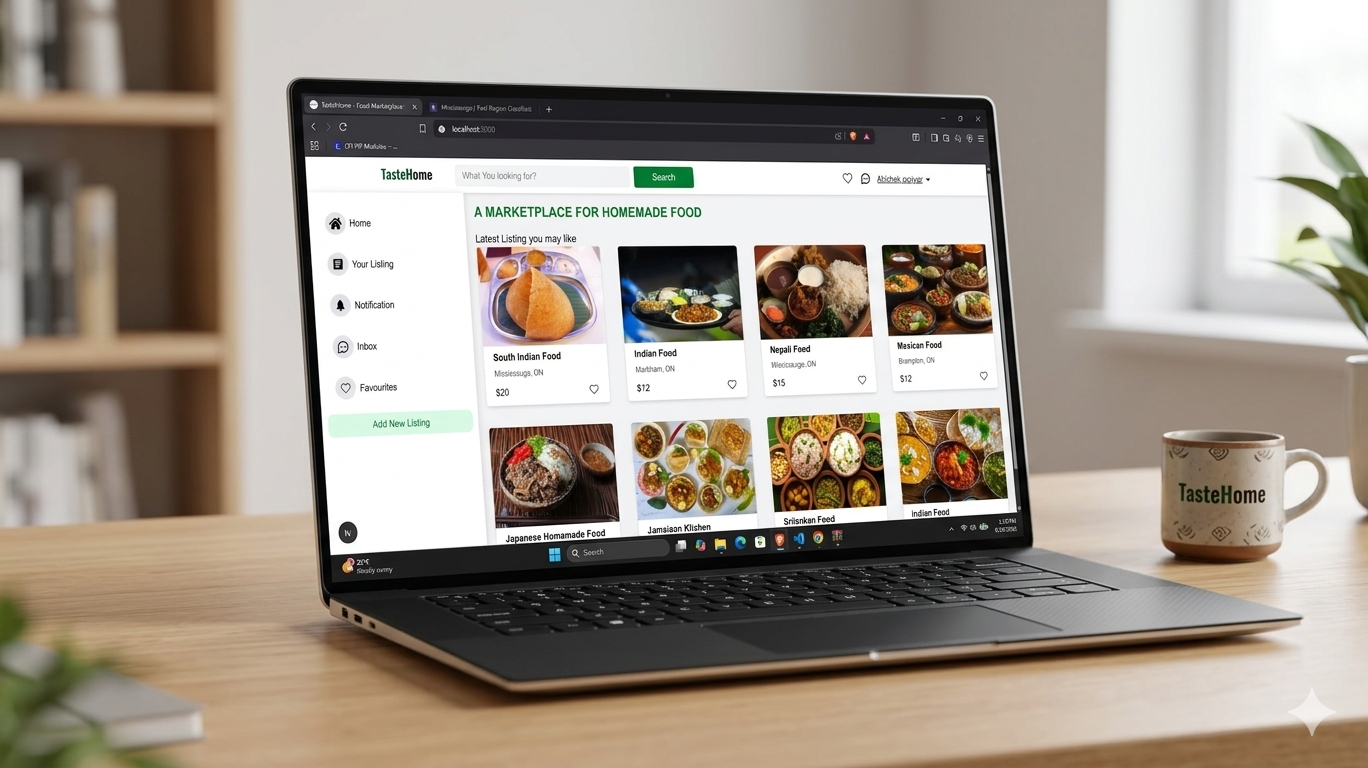
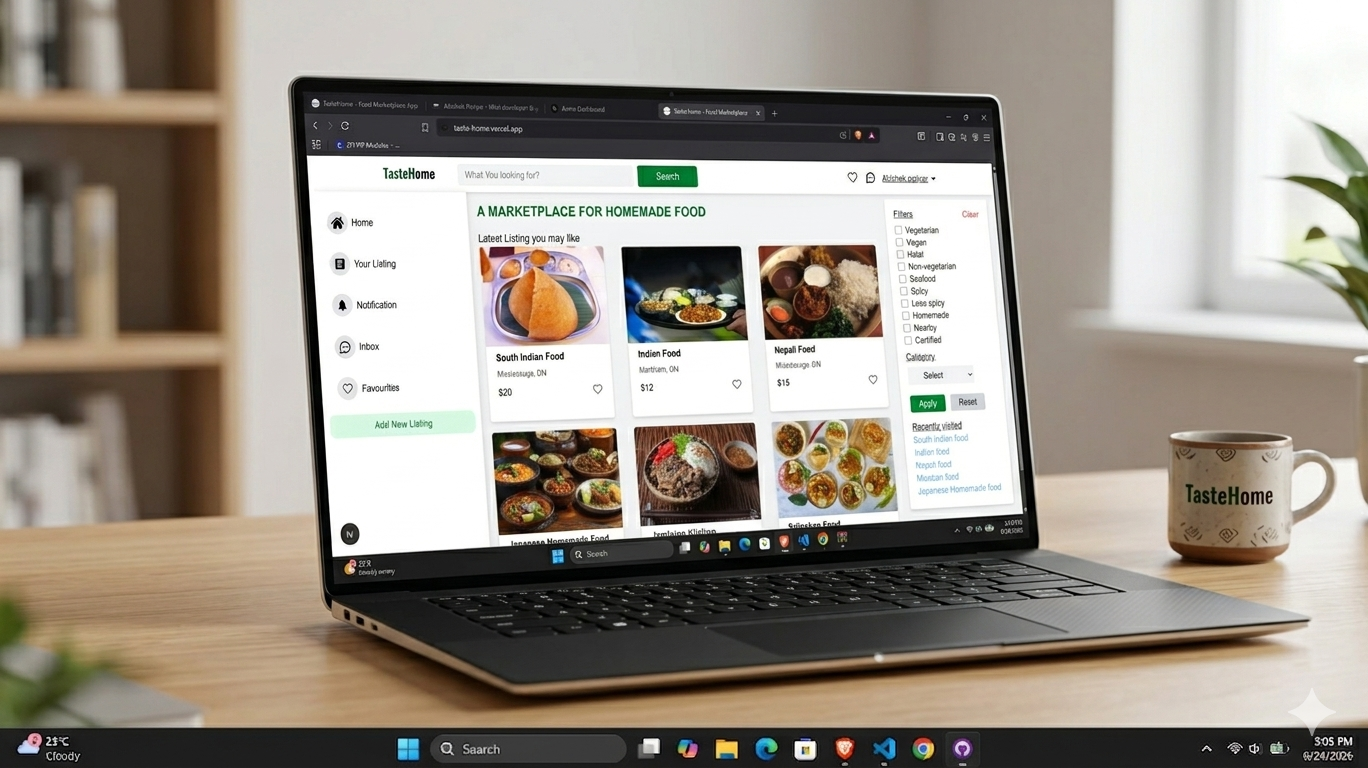
now

diff --git a/src/data/projectdetail.jsx b/src/data/projectdetail.jsx
@@ -49,7 +49,7 @@ const projects = [
     shortDesc:
       "A marketplace platform for buying and selling homemade and local food. Built with Next.js, TypeScript, Tailwind CSS, and PostgreSQL, featuring listing management, search, and a responsive user experience.",
     tags: ["Next.Js", "Tailwind", "Postgre", "API"],
-    website: "https://nextjs-learn-pearl-three.vercel.app/",
+    website: "hhttps://taste-home.vercel.app/",
   },
  
 ];